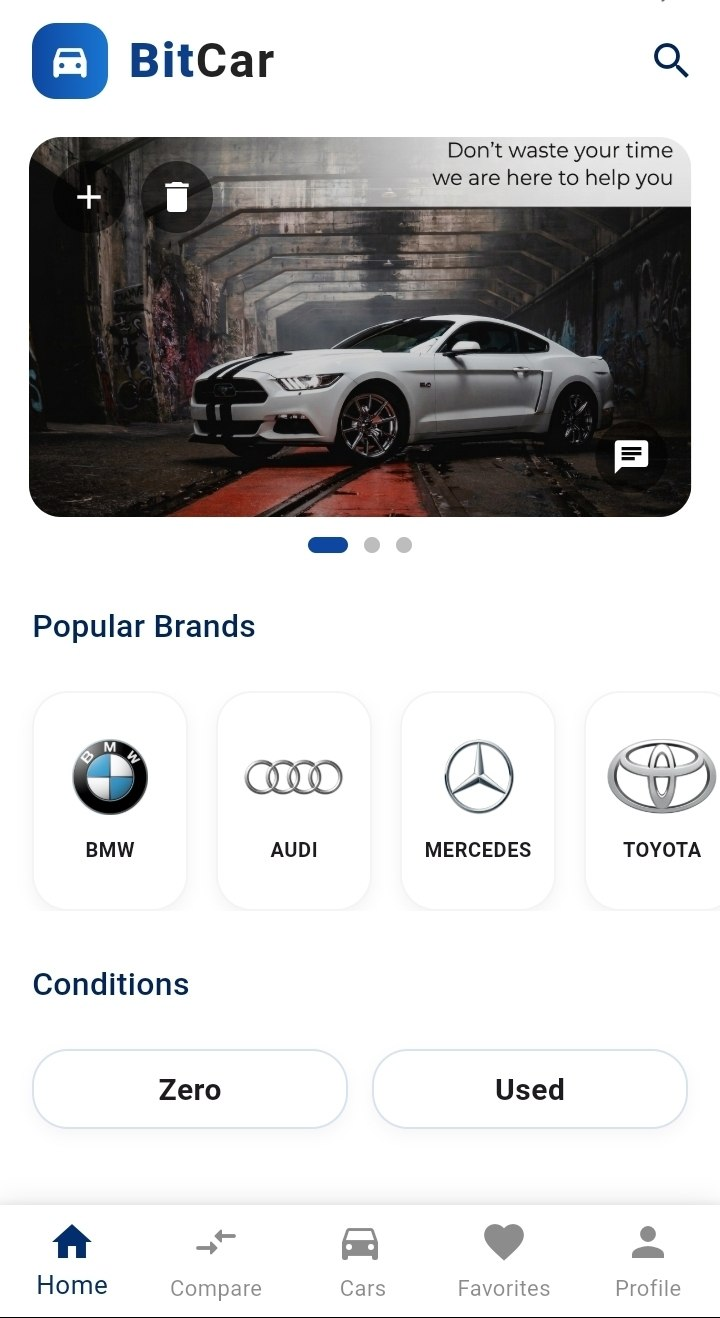
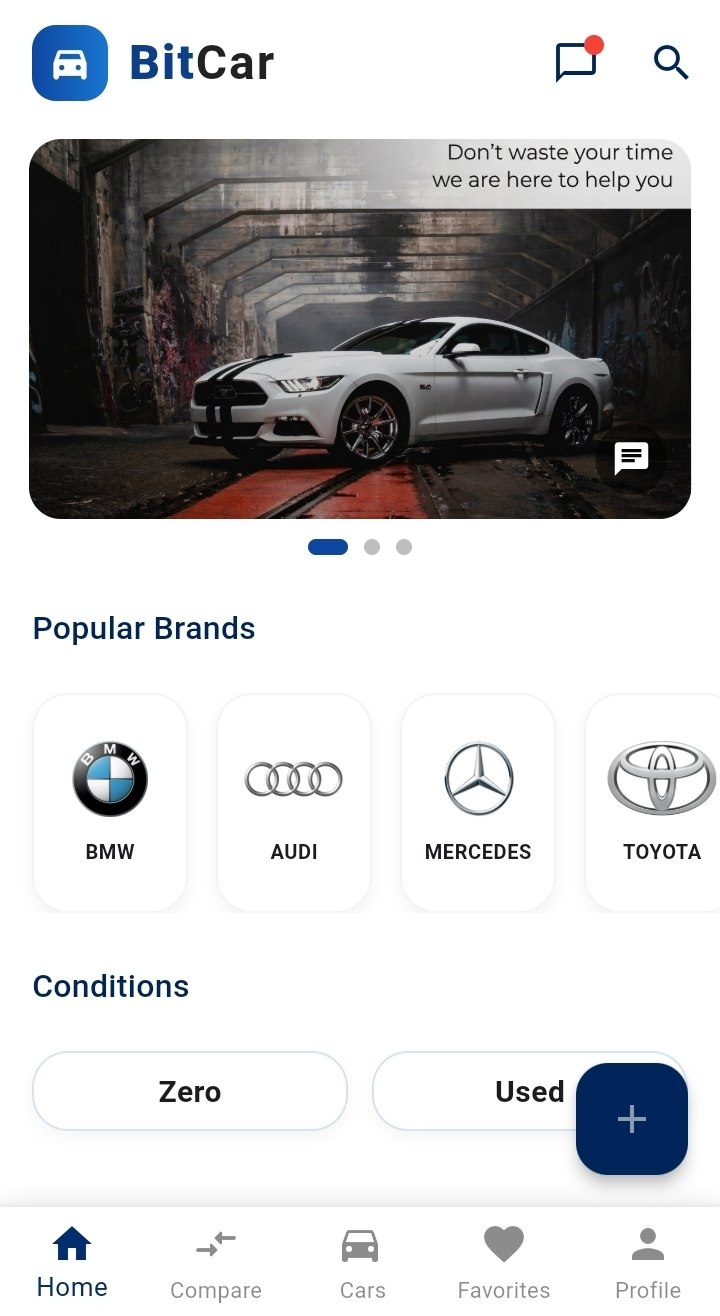
update README to enhance chat feature descriptions and clarify architecture and update screenshots

diff --git a/README.md b/README.md
@@ -2,11 +2,13 @@
 
 BitCar is a Flutter mobile application for browsing, listing, searching, and comparing new and used cars. I built this project independently from scratch to apply Flutter development practices and software architecture concepts in a practical application.
 
-The application follows Clean Architecture and uses BLoC/Cubit for state management, with Firebase Authentication and Cloud Firestore for authentication and data management. It provides role-based functionality for buyers, sellers, and administrators.
+The application follows Clean Architecture and uses BLoC/Cubit for state management, with Firebase Authentication and Cloud Firestore for authentication, data management, and real-time buyer–seller communication. It provides role-based functionality for buyers, sellers, and administrators.
 
 ---
 
 ## Features
+
+### Car Marketplace
 
 * **Authentication:** User registration and login using Firebase Authentication.
 * **Car Listings:** Browse new and used cars.
@@ -17,6 +19,21 @@ The application follows Clean Architecture and uses BLoC/Cubit for state managem
 * **Role-Based Functionality:** Separate functionality for Admin, Seller, and Buyer roles.
 * **Banner Advertisement Management:** Allow administrators to manage banner advertisements.
 * **Pagination and Lazy Loading:** Load car listings incrementally.
+
+### Buyer–Seller Messaging
+
+* **Real-Time Messaging:** Allow buyers and sellers to communicate directly through the application.
+* **Unique Conversations:** Maintain one conversation per buyer–seller pair, allowing buyers to discuss different cars from the same seller within a single conversation.
+* **Conversation List:** Display conversations with last-message previews and unread message counts.
+* **Read Status:** Update message read statuses in real time.
+* **Message Pagination:** Load older messages incrementally.
+* **Connection Handling:** Handle connection states and support retry operations after interruptions.
+* **Secure Conversation Management:** Support controlled deletion of messages and conversations.
+* **Access Control:** Protect conversations and messages using Firestore Security Rules to prevent unauthorized access.
+* **Session Isolation:** Prevent previous users' chat data from leaking across logout and account-switching operations.
+
+### General
+
 * **Responsive UI:** Reusable interface components designed for different screen sizes.
 * **Error Handling:** Provide user-friendly feedback for application errors.
 
@@ -35,6 +52,10 @@ The application follows Clean Architecture and uses BLoC/Cubit for state managem
 | Compare                                    | My Cars                                    |
 | ------------------------------------------ | ------------------------------------------ |
 | ![Compare Screen](screenshots/compare.jpg) | ![My Cars Screen](screenshots/my_cars.jpg) |
+
+| Conversations                                          | Chat Room                                      |
+| ------------------------------------------------------ | ---------------------------------------------- |
+| ![Conversations Screen](screenshots/conversations.jpg) | ![Chat Room Screen](screenshots/chat_room.jpg) |
 
 | Profile                                    |
 | ------------------------------------------ |
@@ -58,6 +79,7 @@ The application follows Clean Architecture and uses BLoC/Cubit for state managem
 
 * Firebase Authentication
 * Cloud Firestore
+* Firestore Security Rules
 * SharedPreferences
 
 ### Architecture and Design Patterns
@@ -87,14 +109,14 @@ Presentation
           │ uses
           ▼
 Domain
-  ├── Entities
+  ├── Entities / Domain Models
   ├── Use Cases
   └── Repository Contracts
           ▲
           │ implemented by
           │
 Data
-  ├── Models
+  ├── Data Models
   ├── Data Sources
   └── Repository Implementations
           │
@@ -105,6 +127,10 @@ Firebase
 ```
 
 The Domain layer defines application logic and repository contracts. The Data layer provides repository implementations and handles data access, while the Presentation layer uses BLoC/Cubit to manage state and coordinate the user interface with application logic.
+
+Within the car and chat modules, the Data and Domain layers are shared across their related features, while each feature maintains its own BLoC and UI components.
+
+The chat module uses Firebase Authentication to identify conversation participants and Cloud Firestore for real-time message synchronization, conversation management, and read-status updates. Firestore Security Rules enforce access control over conversations and messages.
 
 ---
 
@@ -179,7 +205,23 @@ lib/
 │   │       ├── bloc/
 │   │       └── ui/
 │   │
-│   └── ... other application features
+│   ├── chat/
+│   │   ├── chat_room/
+│   │   │   ├── bloc/
+│   │   │   └── ui/
+│   │   ├── conversations/
+│   │   │   ├── bloc/
+│   │   │   └── ui/
+│   │   ├── data/
+│   │   │   ├── datasource/
+│   │   │   └── repositories/
+│   │   └── domain/
+│   │       ├── model/
+│   │       ├── repositories/
+│   │       └── usecase/
+│   │
+│   └── compare/
+│
 ├── models/
 ├── shared/
 │   ├── components/
@@ -188,10 +230,9 @@ lib/
 └── main.dart
 ```
 
-The project is organized into feature modules, shared components, and common application services.
+The project is organized into feature modules, shared components, and common application functionality.
 
-Within the car module, the `data` and `domain` layers are shared across the car-related features, while each feature maintains its own BLoC and UI components.
-
+Within the car and chat modules, the Data and Domain layers are shared across related features. Each feature maintains its own BLoC and UI components, reducing unnecessary duplication while keeping presentation logic organized.
 
 ---
 
@@ -199,7 +240,7 @@ Within the car module, the `data` and `domain` layers are shared across the car-
 
 Vehicle images currently use local assets.
 
-The image-source structure is prepared to support switching to Firebase Storage in the future. However, Firebase Storage integration is not currently active, and the application does not currently upload vehicle images to Firebase Storage.
+The image-source structure is prepared to support switching to Firebase Storage in the future. The `firebase_storage` package is included in the project dependencies, but Firebase Storage integration is not currently active, and vehicle images are not uploaded to Firebase Storage.
 
 ---
 
